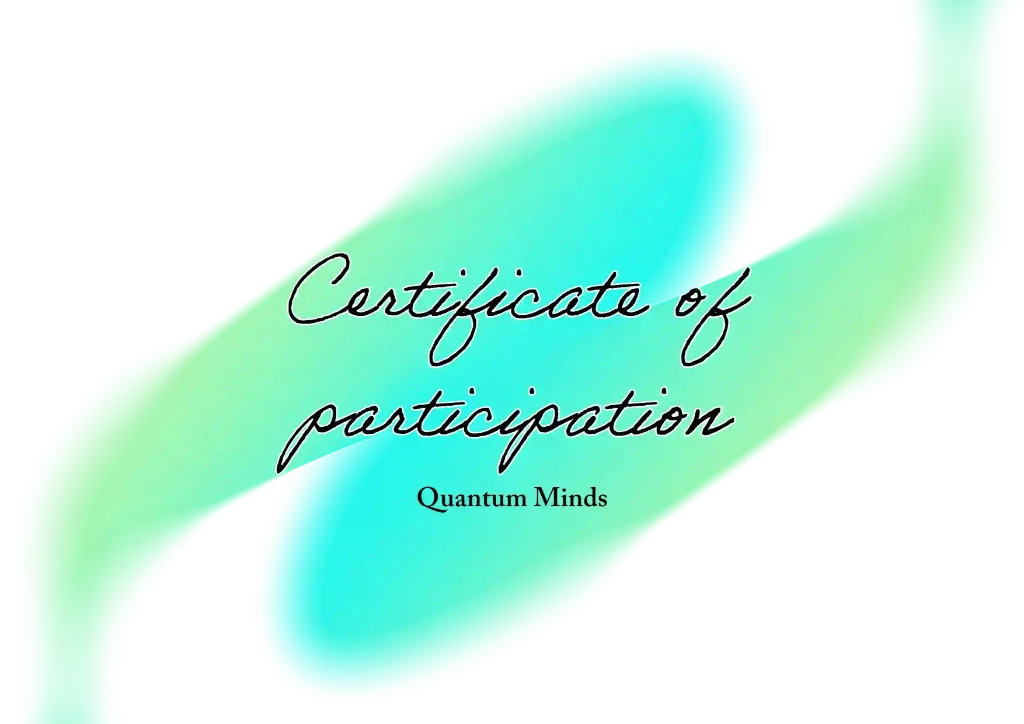
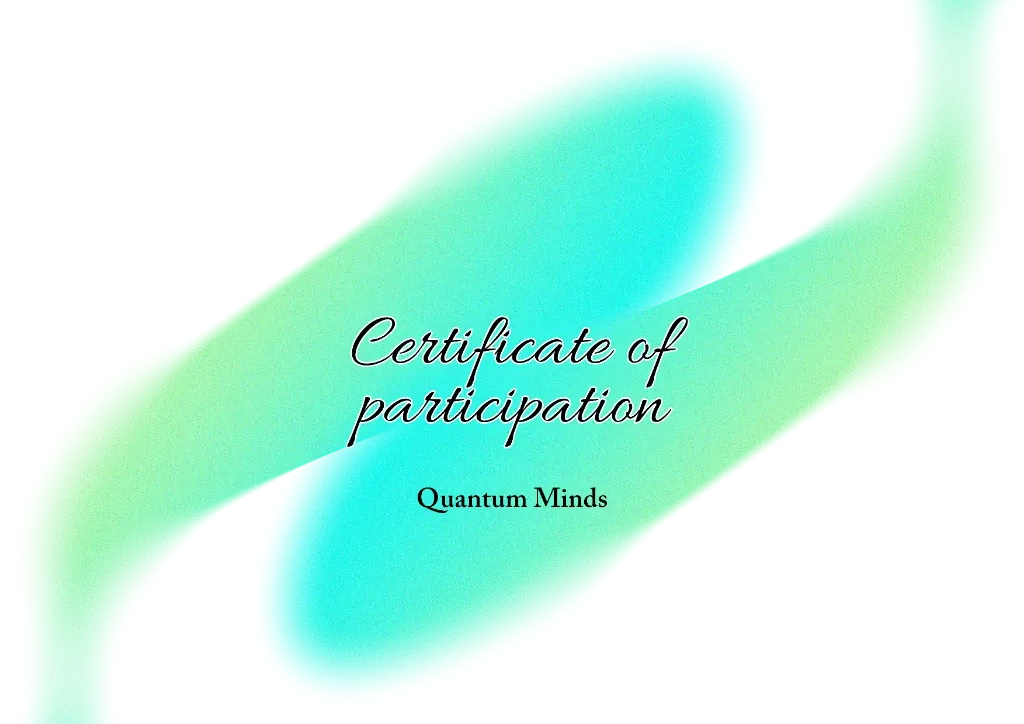
Change verify bg image

Changed region(s): [[0.25, 0.3343, 0.75, 0.7293]]

diff --git a/templates/verify.html b/templates/verify.html
@@ -196,7 +196,7 @@
             <span class="cs-topper">Quantum Minds Workshop Certificate</span>
             <h1 class="cs-title">Congratulations on Your Achievement!</h1>
             <p class="cs-text">
-                Well done on successfully completing the {{ course }} hosted by Quantum Minds! This certificate is a testament to your dedication, passion for learning, and ability to embrace innovative ideas. Your participation marks a significant step in your journey of innovation and learning and makes you ready to showcase your skills to the world. Keep pushing boundaries and making strides in your journey of knowledge!
+                Well done on successfully completing the <strong>{{ course }}</strong> hosted by <strong>Quantum Minds</strong>! This certificate is a testament to your dedication, passion for learning, and ability to embrace innovative ideas. Your participation marks a significant step in your journey of innovation and learning and makes you ready to showcase your skills to the world. Keep pushing boundaries and making strides in your journey of knowledge!
             </p>
         </div>
     </div>
@@ -204,7 +204,7 @@
 
 {% else %}
 <section id="reviews-306">
-    <br/><br/><br/><br/><br/><br/>
+    <br/><br/><br/><br/><br/>
 </section>
 
 {% endif %}
@@ -223,7 +223,7 @@
     </picture>
     <div class="cs-content">
         <!-- <br/><br/><br/><br/><br/><br/><br/><br/> -->
-            <p class="cs-review">We couldn't find any record matching the provided Credential Verification ID.<br/><br/>If the issue persists, contact our support team at <a href="mailto:quantummindsclubsocial@gmail.com">support@quantumminds</a>.</p>
+            <p class="cs-review">We couldn't find any record matching the provided Credential Verification ID. Make sure that you entered the correct credential ID. If the issue persists, contact our support team at <a href="mailto:quantummindsclubsocial@gmail.com">support@quantumminds</a>.</p>
         <!-- <br/><br/><br/><br/><br/><br/><br/><br/> -->
     </div>
     {% else %}
@@ -232,7 +232,7 @@
         <source media="(min-width: 601px)" srcset="{{ url_for('static', filename='images/bg.webp') }}">
         <img aria-hidden="true" loading="lazy" decoding="async" 
              src="{{ url_for('static', filename='images/bg.webp') }}" 
-             alt="Quantum Minds Logo" width="842" height="548">
+             alt="Certificate logo" width="842" height="548">
     </picture>   
     <div class="cs-content">
         <img class="cs-quote" aria-hidden="true" loading="lazy" decoding="async" src="{{ url_for('static', filename='images/top-quote.svg') }}" alt="quote" width="40" height="33">
@@ -253,4 +253,5 @@
     </div>
     {% endif %}
 </section>
+
 {% endblock %}
